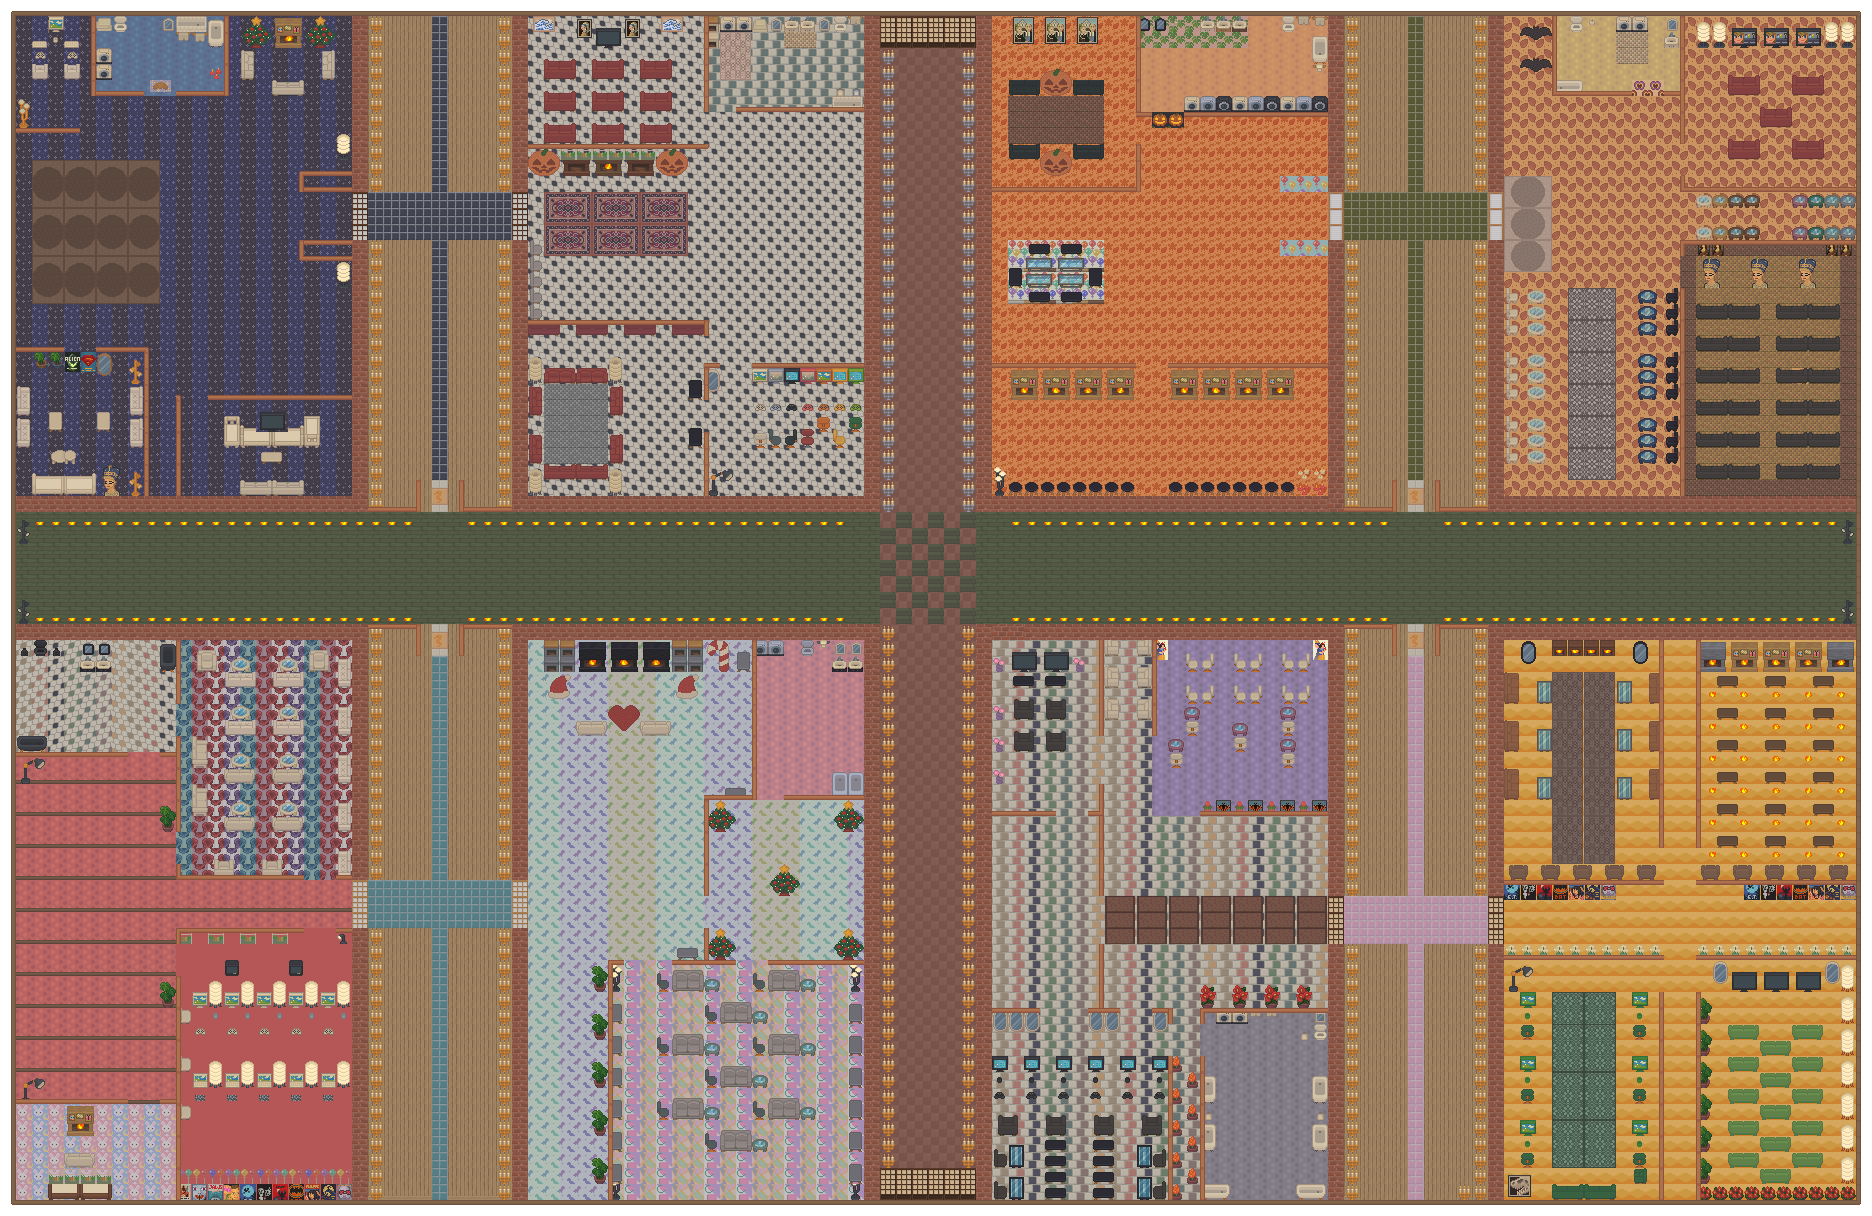
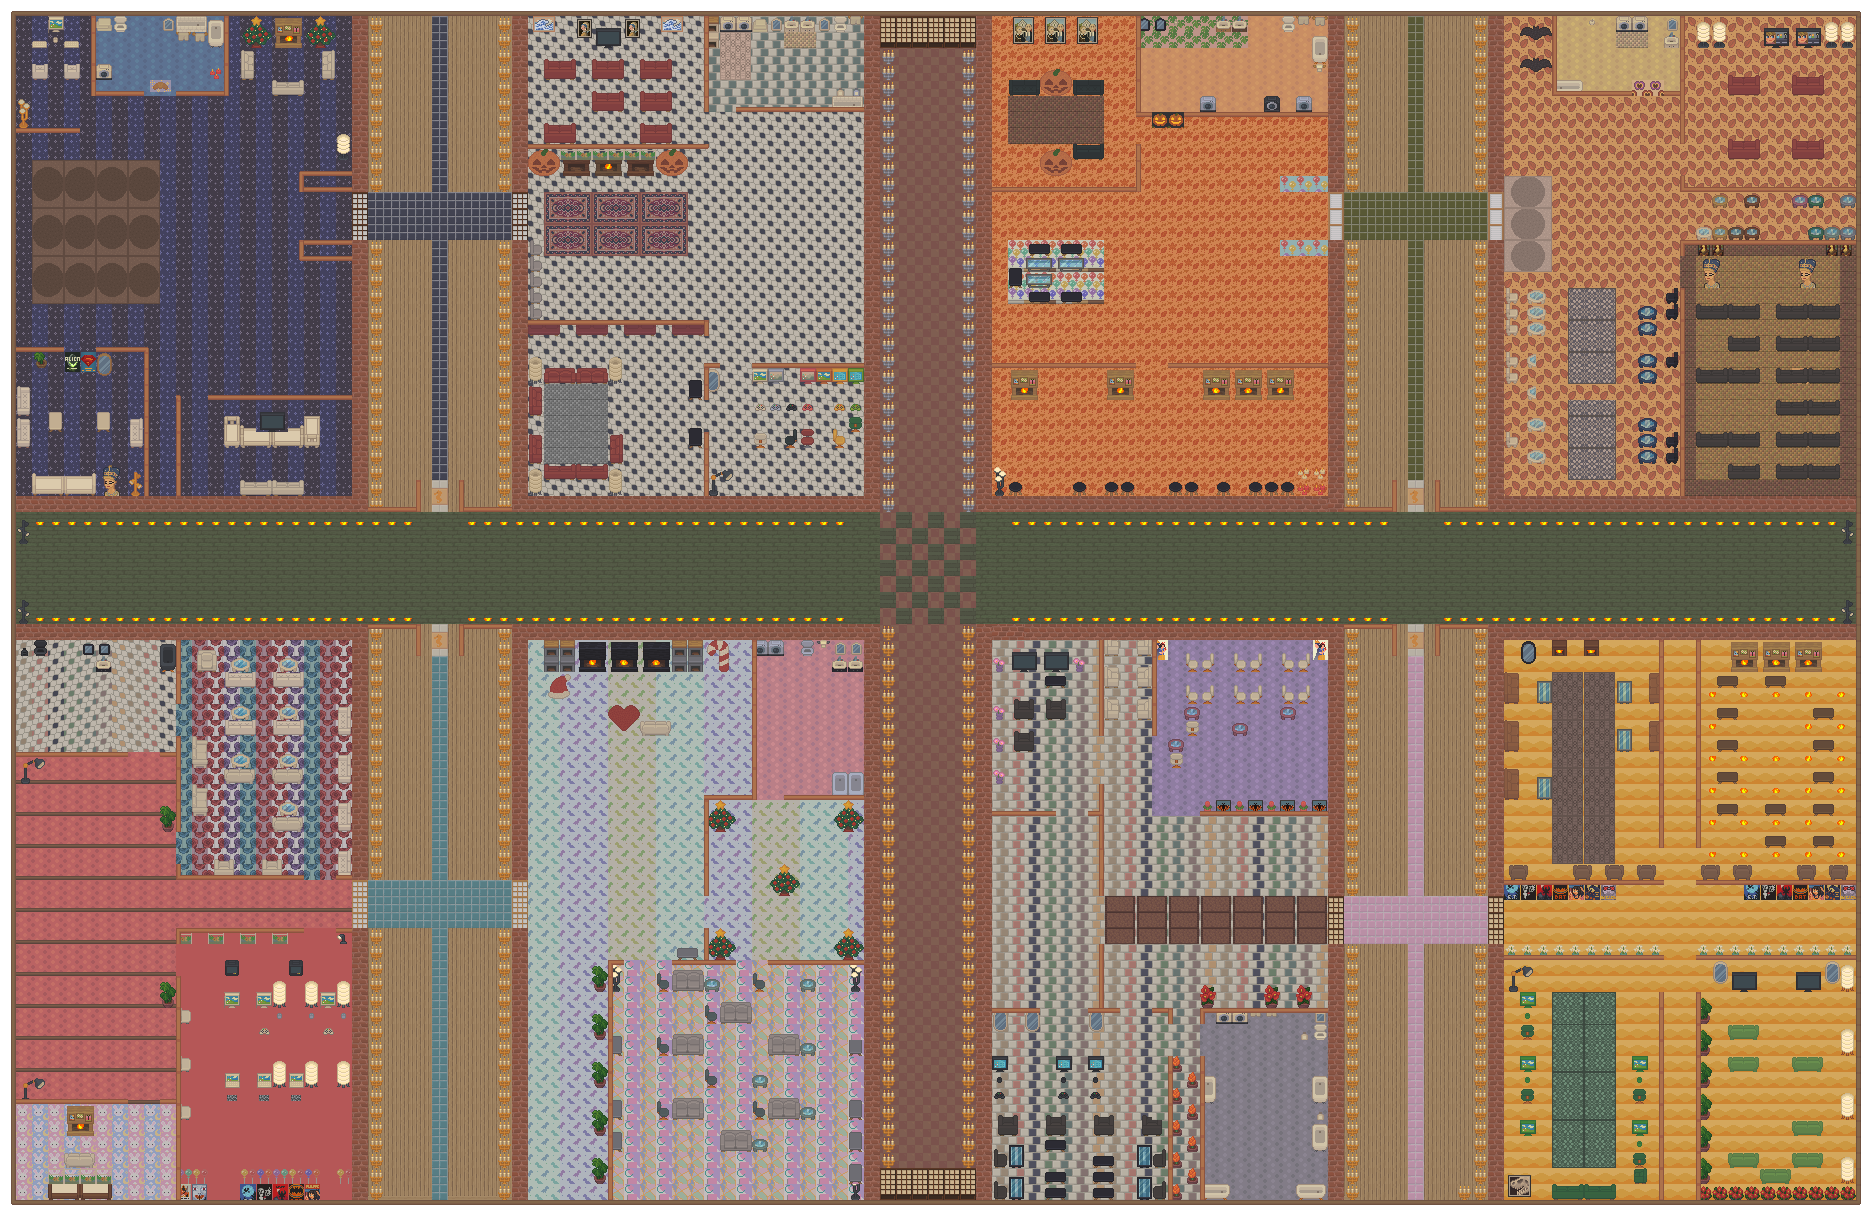
TestWalls and made the walls transparent

diff --git a/game/SampleScene.java b/game/SampleScene.java
@@ -2,8 +2,6 @@ package game;
 
 import math.Vector2;
 
-import java.awt.Color;
-
 import engine.GameCanvas;
 import engine.GameFrame;
 import engine.drawing.ImageObject;
@@ -22,20 +20,175 @@ public class SampleScene extends GameCanvas {
 
     public void ready() {
         if (perspective.equals("hider")) {
-            player = new Hider("Eren", 18, 18, 12, new Vector2(Vector2.ZERO), "assets\\yorkie animation.png", 4);
-            other = new OtherCharacter("OtherSeeker", new Vector2(0,0), 24, 24, "assets\\professor_walk_cycle_no_hat.png", 12, 9);
+            player = new Hider("Eren", 18, 18, 12, new Vector2(928, 560), "assets\\yorkie animation.png", 4);
+            other = new OtherCharacter("OtherSeeker", new Vector2(928, 560), 24, 24,
+                    "assets\\professor_walk_cycle_no_hat.png", 12, 9);
 
         } else if (perspective.equals("seeker")) {
             player = new Seeker();
-            other = new OtherCharacter("impostor", new Vector2(Vector2.ZERO), 18, 18, "assets\\yorkie animation.png", 12, 4);
+            other = new OtherCharacter("impostor", new Vector2(Vector2.ZERO), 18, 18, "assets\\yorkie animation.png",
+                    12, 4);
         }
 
         camera = new Camera(player.getPosition(), this, Vector2.multiply(player.getSize(), -0.5f), 2f);
         player.setCamera(camera);
-        
+
         add(camera);
         add(new ImageObject("map", Vector2.ZERO, "assets\\map.png"));
-        add(new TestWall(new Vector2(400, 30), new Vector2(500, 130), Color.RED));
+        add(new TestWall(new Vector2(11, 11), new Vector2(16, 1205)));
+        add(new TestWall(new Vector2(11, 11), new Vector2(1861, 16)));
+        add(new TestWall(new Vector2(1856, 11), new Vector2(1861, 1205)));
+        add(new TestWall(new Vector2(11, 1201), new Vector2(1861, 1205)));
+
+        add(new TestWall(new Vector2(864, 16), new Vector2(880, 511)));
+        add(new TestWall(new Vector2(527, 496), new Vector2(880, 511)));
+        add(new TestWall(new Vector2(512, 240), new Vector2(528, 511)));
+        add(new TestWall(new Vector2(512, 16), new Vector2(368, 511)));
+
+        add(new TestWall(new Vector2(16, 496), new Vector2(368, 511)));
+        add(new TestWall(new Vector2(352, 240), new Vector2(368, 511)));
+        add(new TestWall(new Vector2(352, 16), new Vector2(368, 192)));
+        add(new TestWall(new Vector2(512, 16), new Vector2(528, 192)));
+
+        add(new TestWall(new Vector2(880, 16), new Vector2(976, 48)));
+
+        add(new TestWall(new Vector2(975, 16), new Vector2(992, 496)));
+        add(new TestWall(new Vector2(976, 496), new Vector2(1344, 511)));
+        add(new TestWall(new Vector2(1327, 240), new Vector2(1344, 512)));
+        add(new TestWall(new Vector2(1327, 16), new Vector2(1344, 193)));
+
+        add(new TestWall(new Vector2(1488, 16), new Vector2(1504, 193)));
+        add(new TestWall(new Vector2(1487, 240), new Vector2(1504, 511)));
+        add(new TestWall(new Vector2(1487, 496), new Vector2(1856, 511)));
+
+        add(new TestWall(new Vector2(16, 624), new Vector2(369, 640)));
+        add(new TestWall(new Vector2(352, 624), new Vector2(369, 877)));
+        add(new TestWall(new Vector2(352, 928), new Vector2(369, 1200)));
+        add(new TestWall(new Vector2(511, 624), new Vector2(528, 880)));
+        add(new TestWall(new Vector2(511, 928), new Vector2(528, 1200)));
+        add(new TestWall(new Vector2(511, 624), new Vector2(880, 640)));
+        add(new TestWall(new Vector2(864, 624), new Vector2(880, 1200)));
+
+        add(new TestWall(new Vector2(976, 624), new Vector2(992, 1200)));
+        add(new TestWall(new Vector2(976, 624), new Vector2(1345, 640)));
+        add(new TestWall(new Vector2(1488, 624), new Vector2(1855, 640)));
+        add(new TestWall(new Vector2(1488, 624), new Vector2(1504, 897)));
+        add(new TestWall(new Vector2(1488, 944), new Vector2(1504, 1200)));
+        add(new TestWall(new Vector2(1327, 624), new Vector2(1345, 897)));
+        add(new TestWall(new Vector2(1327, 944), new Vector2(1345, 1200)));
+
+        add(new TestWall(new Vector2(880, 1168), new Vector2(976, 1200)));
+
+        add(new TestWall(new Vector2(416, 480), new Vector2(421, 512)));
+        add(new TestWall(new Vector2(459, 480), new Vector2(463, 512)));
+        add(new TestWall(new Vector2(368, 507), new Vector2(421, 512)));
+        add(new TestWall(new Vector2(459, 507), new Vector2(512, 512)));
+        add(new TestWall(new Vector2(16, 128), new Vector2(80, 133)));
+        add(new TestWall(new Vector2(91, 16), new Vector2(96, 96)));
+        add(new TestWall(new Vector2(91, 91), new Vector2(144, 96)));
+        add(new TestWall(new Vector2(91, 91), new Vector2(144, 96)));
+        add(new TestWall(new Vector2(176, 91), new Vector2(229, 96)));
+        add(new TestWall(new Vector2(224, 16), new Vector2(229, 96)));
+        add(new TestWall(new Vector2(16, 347), new Vector2(64, 352)));
+        add(new TestWall(new Vector2(96, 347), new Vector2(144, 352)));
+        add(new TestWall(new Vector2(144, 347), new Vector2(149, 496)));
+        add(new TestWall(new Vector2(176, 395), new Vector2(181, 496)));
+        add(new TestWall(new Vector2(208, 395), new Vector2(352, 401)));
+        add(new TestWall(new Vector2(299, 171), new Vector2(352, 192)));
+        add(new TestWall(new Vector2(299, 240), new Vector2(352, 261)));
+
+        add(new TestWall(new Vector2(528, 144), new Vector2(708, 148)));
+        add(new TestWall(new Vector2(705, 16), new Vector2(708, 110)));
+        add(new TestWall(new Vector2(737, 108), new Vector2(863, 111)));
+        add(new TestWall(new Vector2(528, 321), new Vector2(704, 324)));
+        add(new TestWall(new Vector2(705, 321), new Vector2(708, 335)));
+        add(new TestWall(new Vector2(705, 364), new Vector2(708, 399)));
+        add(new TestWall(new Vector2(705, 364), new Vector2(719, 367)));
+        add(new TestWall(new Vector2(705, 433), new Vector2(708, 496)));
+        add(new TestWall(new Vector2(753, 364), new Vector2(863, 367)));
+
+        add(new TestWall(new Vector2(992, 188), new Vector2(1140, 191)));
+        add(new TestWall(new Vector2(1137, 145), new Vector2(1140, 191)));
+        add(new TestWall(new Vector2(1137, 16), new Vector2(1140, 115)));
+        add(new TestWall(new Vector2(1140, 113), new Vector2(1150, 116)));
+        add(new TestWall(new Vector2(1185, 113), new Vector2(1327, 116)));
+        add(new TestWall(new Vector2(992, 364), new Vector2(1135, 367)));
+        add(new TestWall(new Vector2(1169, 364), new Vector2(1328, 367)));
+
+        add(new TestWall(new Vector2(1344, 508), new Vector2(1396, 511)));
+        add(new TestWall(new Vector2(1393, 481), new Vector2(1396, 511)));
+        add(new TestWall(new Vector2(1436, 481), new Vector2(1439, 511)));
+        add(new TestWall(new Vector2(1436, 508), new Vector2(1488, 511)));
+
+        add(new TestWall(new Vector2(1553, 16), new Vector2(1556, 95)));
+        add(new TestWall(new Vector2(1553, 92), new Vector2(1631, 95)));
+        add(new TestWall(new Vector2(1665, 92), new Vector2(1680, 95)));
+        add(new TestWall(new Vector2(1681, 16), new Vector2(1684, 143)));
+        add(new TestWall(new Vector2(1681, 176), new Vector2(1684, 191)));
+        add(new TestWall(new Vector2(1681, 188), new Vector2(1856, 191)));
+        add(new TestWall(new Vector2(1681, 241), new Vector2(1856, 244)));
+        add(new TestWall(new Vector2(1681, 241), new Vector2(1684, 256)));
+        add(new TestWall(new Vector2(1681, 289), new Vector2(1684, 496)));
+
+        add(new TestWall(new Vector2(368, 625), new Vector2(420, 628)));
+        add(new TestWall(new Vector2(417, 625), new Vector2(420, 655)));
+        add(new TestWall(new Vector2(460, 625), new Vector2(463, 655)));
+        add(new TestWall(new Vector2(460, 625), new Vector2(512, 628)));
+
+        add(new TestWall(new Vector2(177, 640), new Vector2(180, 703)));
+        add(new TestWall(new Vector2(177, 737), new Vector2(180, 831)));
+        add(new TestWall(new Vector2(160, 753), new Vector2(176, 756)));
+        add(new TestWall(new Vector2(177, 865), new Vector2(180, 879)));
+        add(new TestWall(new Vector2(177, 876), new Vector2(303, 879)));
+        add(new TestWall(new Vector2(336, 876), new Vector2(353, 879)));
+        add(new TestWall(new Vector2(336, 876), new Vector2(353, 879)));
+        add(new TestWall(new Vector2(177, 929), new Vector2(303, 932)));
+        add(new TestWall(new Vector2(336, 929), new Vector2(353, 932)));
+        add(new TestWall(new Vector2(177, 929), new Vector2(180, 944)));
+        add(new TestWall(new Vector2(177, 977), new Vector2(180, 1200)));
+        add(new TestWall(new Vector2(16, 1100), new Vector2(127, 1103)));
+        add(new TestWall(new Vector2(16, 753), new Vector2(127, 756)));
+        add(new TestWall(new Vector2(161, 1100), new Vector2(176, 1103)));
+
+        add(new TestWall(new Vector2(705, 796), new Vector2(756, 799)));
+        add(new TestWall(new Vector2(705, 796), new Vector2(708, 895)));
+        add(new TestWall(new Vector2(784, 796), new Vector2(864, 799)));
+        add(new TestWall(new Vector2(705, 929), new Vector2(708, 964)));
+        add(new TestWall(new Vector2(673, 961), new Vector2(735, 964)));
+        add(new TestWall(new Vector2(769, 961), new Vector2(863, 964)));
+        add(new TestWall(new Vector2(609, 961), new Vector2(623, 964)));
+        add(new TestWall(new Vector2(609, 961), new Vector2(612, 1200)));
+        add(new TestWall(new Vector2(753, 640), new Vector2(756, 799)));
+
+        add(new TestWall(new Vector2(1344, 625), new Vector2(1396, 628)));
+        add(new TestWall(new Vector2(1393, 625), new Vector2(1396, 655)));
+        add(new TestWall(new Vector2(1436, 625), new Vector2(1439, 655)));
+        add(new TestWall(new Vector2(1436, 625), new Vector2(1488, 628)));
+
+        add(new TestWall(new Vector2(992, 812), new Vector2(1055, 815)));
+        add(new TestWall(new Vector2(1088, 812), new Vector2(1103, 815)));
+        add(new TestWall(new Vector2(1100, 785), new Vector2(1103, 895)));
+        add(new TestWall(new Vector2(1100, 945), new Vector2(1103, 1011)));
+        add(new TestWall(new Vector2(992, 1009), new Vector2(1039, 1012)));
+        add(new TestWall(new Vector2(1089, 1009), new Vector2(1119, 1012)));
+        add(new TestWall(new Vector2(1153, 1009), new Vector2(1172, 1012)));
+        add(new TestWall(new Vector2(1169, 1009), new Vector2(1172, 1022)));
+        add(new TestWall(new Vector2(1200, 1009), new Vector2(1203, 1023)));
+        add(new TestWall(new Vector2(1200, 1009), new Vector2(1327, 1012)));
+        add(new TestWall(new Vector2(1201, 1057), new Vector2(1204, 1200)));
+        add(new TestWall(new Vector2(1169, 1057), new Vector2(1172, 1200)));
+        add(new TestWall(new Vector2(1100, 640), new Vector2(1103, 735)));
+        add(new TestWall(new Vector2(1153, 640), new Vector2(1156, 735)));
+        add(new TestWall(new Vector2(1201, 812), new Vector2(1328, 815)));
+
+        add(new TestWall(new Vector2(1504, 881), new Vector2(1663, 884)));
+        add(new TestWall(new Vector2(1697, 881), new Vector2(1856, 884)));
+        add(new TestWall(new Vector2(1660, 640), new Vector2(1663, 847)));
+        add(new TestWall(new Vector2(1697, 640), new Vector2(1700, 847)));
+        add(new TestWall(new Vector2(1660, 993), new Vector2(1663, 1200)));
+        add(new TestWall(new Vector2(1697, 993), new Vector2(1700, 1200)));
+        add(new TestWall(new Vector2(1504, 956), new Vector2(1663, 959)));
+        add(new TestWall(new Vector2(1697, 956), new Vector2(1856, 959)));
         add(player);
         add(other);
         if (perspective.equals("seeker")) {

diff --git a/game/TestWall.java b/game/TestWall.java
@@ -10,17 +10,13 @@ import engine.physics.CollisionBox;
 import engine.physics.PhysicsObject;
 import math.Vector2;
 
-public class TestWall extends GameObject implements DrawingObject, PhysicsObject{
+public class TestWall extends GameObject implements DrawingObject, PhysicsObject {
 
     private Vector2 position;
     private Vector2 size;
-    private Vector2 endPosition;
-    private Color color;
 
-    public TestWall(Vector2 position, Vector2 endPosition, Color color) {
+    public TestWall(Vector2 position, Vector2 endPosition) {
         this.position = position;
-        this.endPosition = endPosition;
-        this.color = color;
         size = Vector2.add(endPosition, Vector2.multiply(position, -1));
         new CollisionBox(this, position, size, 0);
     }
@@ -31,13 +27,14 @@ public class TestWall extends GameObject implements DrawingObject, PhysicsObject
 
     @Override
     public void process(float delta) {
-        
+
     }
 
     @Override
     public void draw(Graphics2D g2d) {
         var reset = g2d.getTransform();
-        g2d.setColor(color);
+        // Set the color with transparency directly in the drawing method
+        g2d.setColor(new Color(0, 0, 0, 0));
         g2d.translate(position.getX(), position.getY());
         g2d.fill(new Rectangle2D.Double(0, 0, size.getX(), size.getY()));
         g2d.setTransform(reset);
@@ -46,5 +43,5 @@ public class TestWall extends GameObject implements DrawingObject, PhysicsObject
     @Override
     public void collided(PhysicsObject other, String direction, float offset) {
     }
-    
+
 }

diff --git a/game/Gun.java b/game/Gun.java
@@ -25,8 +25,9 @@ public class Gun extends ImageObject implements InputObject {
     public void inputEvent(GameInput input) {
         if (input instanceof GameInput.Mouse mouseInput) {
             if (mouseInput.getType() == GameInput.Mouse.CLICKED) {
-                if (shot) return;
-                bullet = new Bullet(new Vector2(getPosition()), seeker.getGunAngle(), 16*9);
+                if (shot)
+                    return;
+                bullet = new Bullet(new Vector2(getPosition()), seeker.getGunAngle(), 16 * 9);
                 canvas.add(bullet);
                 shot = true;
                 t = 0;
@@ -34,12 +35,13 @@ public class Gun extends ImageObject implements InputObject {
             }
         }
     }
+
     @Override
     public void process(float delta) {
         setAngle(seeker.getGunAngle());
         if (shot) {
             t += delta;
-            //System.out.println(t);
+            // System.out.println(t);
         }
         if (t > 0.2f) {
             shot = false;
@@ -48,5 +50,5 @@ public class Gun extends ImageObject implements InputObject {
             System.out.println("whoosh");
         }
     }
-    
+
 }

diff --git a/math/Vector2.java b/math/Vector2.java
@@ -30,8 +30,8 @@ public class Vector2 {
     }
 
     public Vector2(float angle) {
-        x = (float)Math.cos(angle);
-        y = (float)Math.sin(angle);
+        x = (float) Math.cos(angle);
+        y = (float) Math.sin(angle);
     }
 
     public void set(Vector2 vector) {
@@ -101,7 +101,7 @@ public class Vector2 {
 
     public float getAngle() {
         return (float) Math.atan2(y, x);
-        //return (float)Math.atan(y/x);
+        // return (float)Math.atan(y/x);
     }
 
     @Override

diff --git a/game/Character.java b/game/Character.java
@@ -69,7 +69,7 @@ public class Character extends AnimatedSprite
     @Override
     public void send(DataOutputStream dataOut) {
         try {
-            dataOut.writeUTF("p " +getPosition().toString());
+            dataOut.writeUTF("p " + getPosition().toString());
         } catch (IOException e) {
             System.out.println("Connection Error");
         }

diff --git a/game/Sprite.java b/game/Sprite.java
@@ -88,7 +88,7 @@ public class Sprite extends GameObject implements DrawingObject {
 
     @Override
     public void process(float delta) {
-        // dgds
+        // nothing
     }
 
     @Override

diff --git a/game/Hider.java b/game/Hider.java
@@ -7,5 +7,4 @@ public class Hider extends Character {
         super(name, w, h, fps, position, path, xFrameCount);
     }
 
-    
 }
